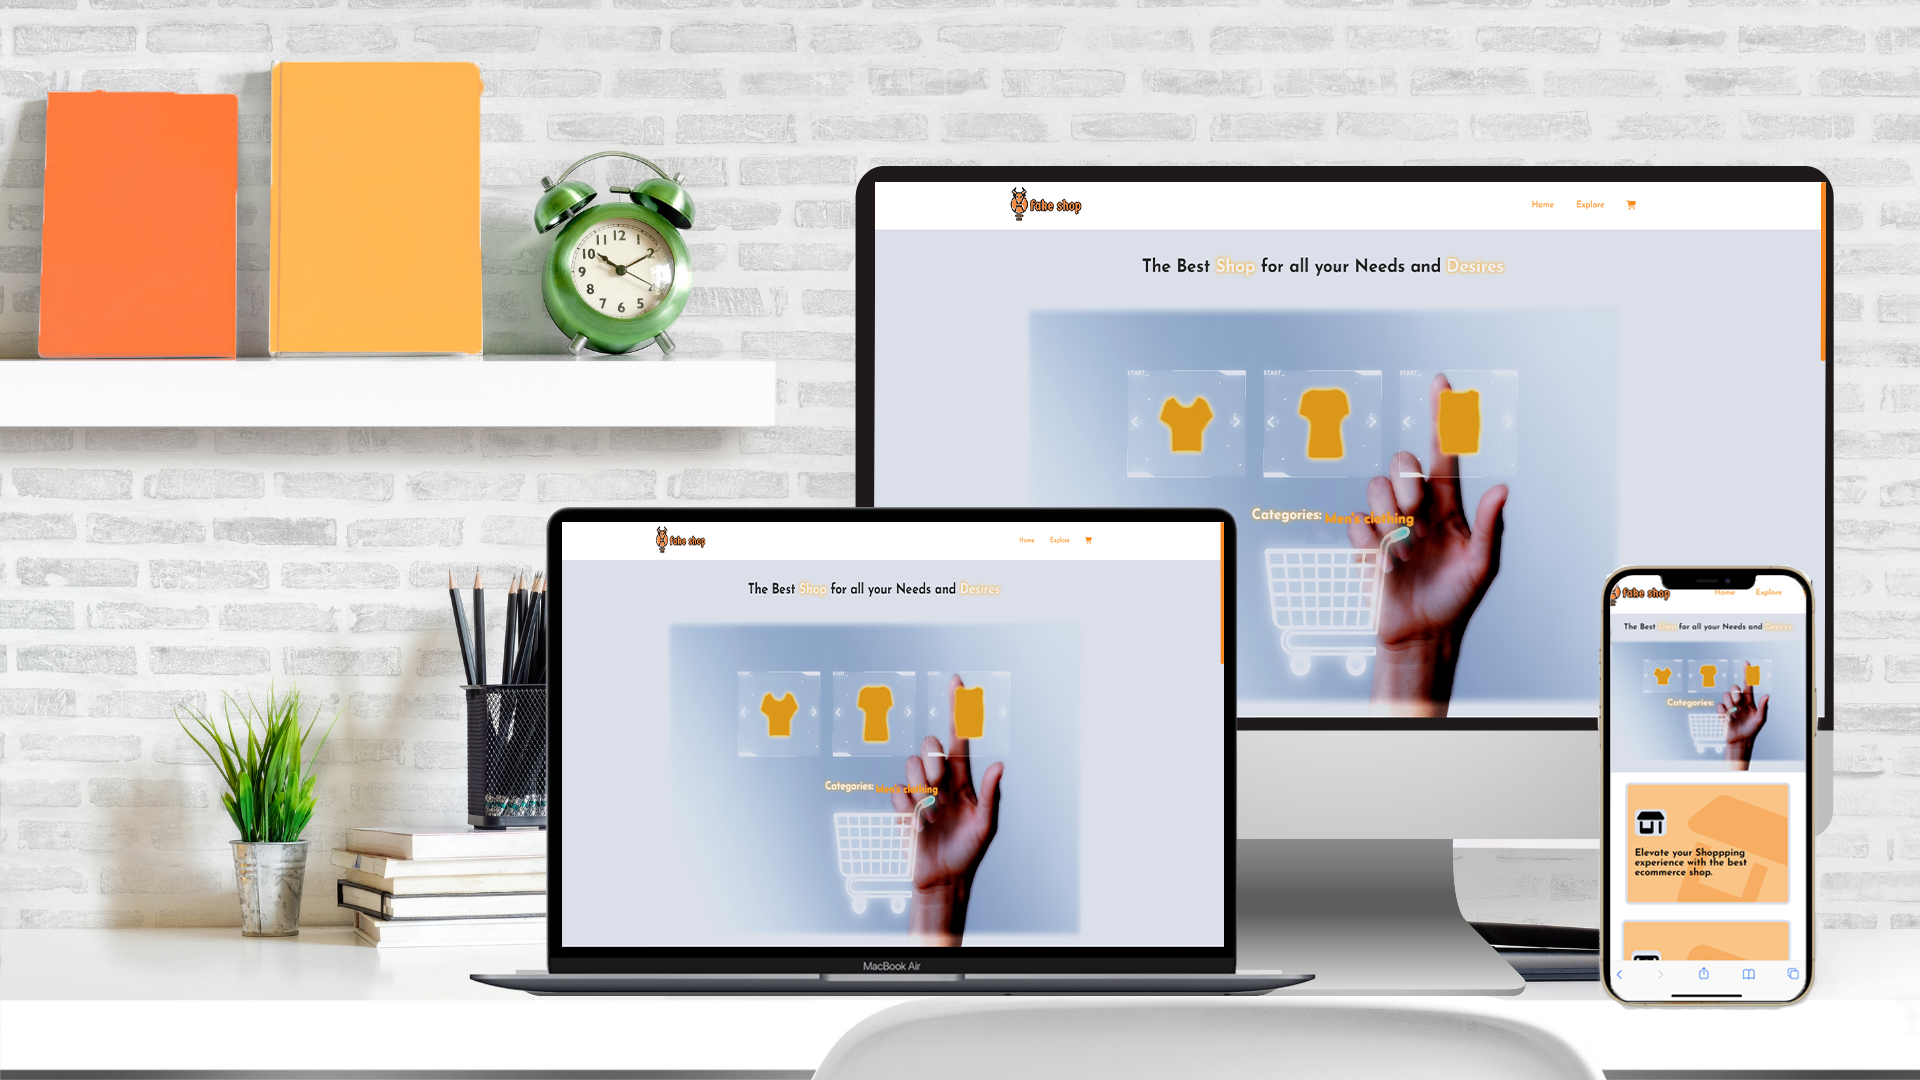
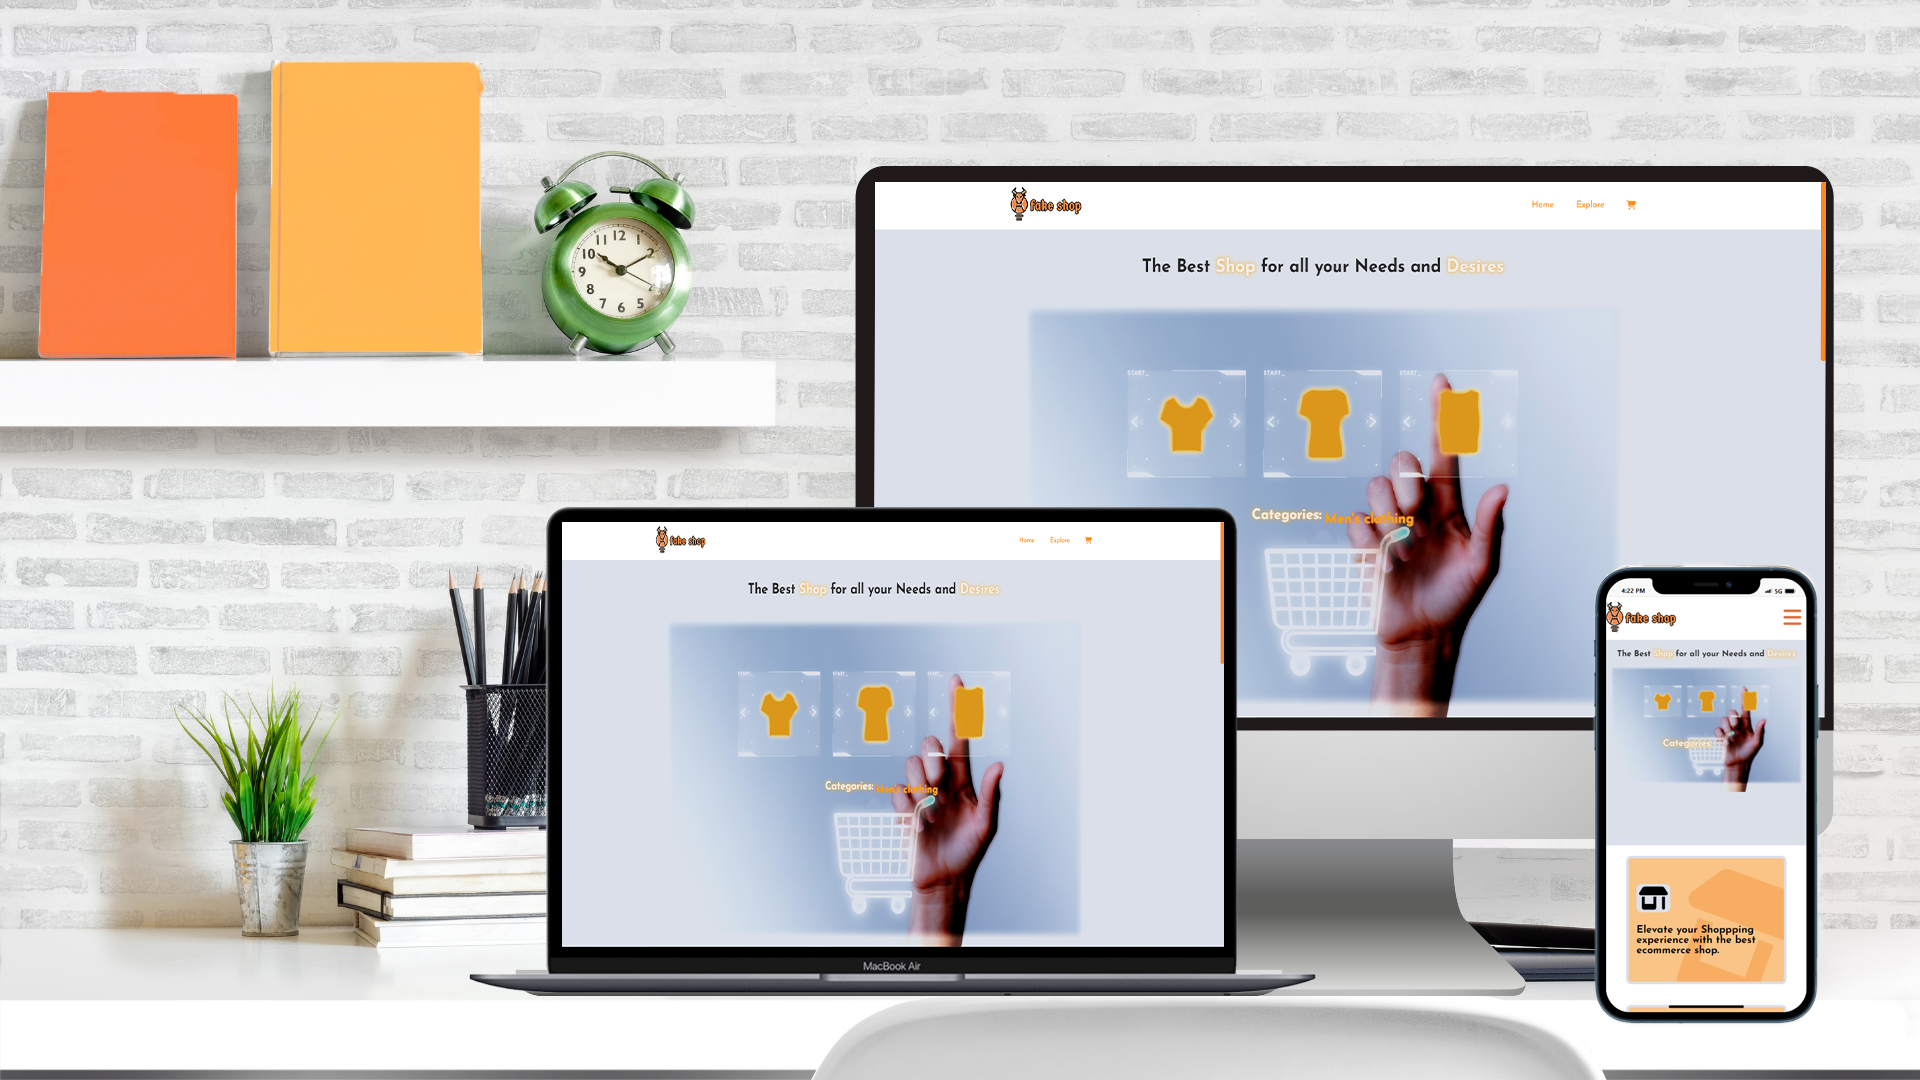
fixed responsiveness

Changed region(s): [[0.8125, 0.5194, 0.9688, 0.9472]]

diff --git a/src/index.css b/src/index.css
@@ -77,6 +77,7 @@ nav {
 
 .nav__link--list {
   display: flex;
+  z-index: 10;
 }
 a {
   text-decoration: none;
@@ -448,17 +449,32 @@ button {
   background-color: #ffffff;
   font-size: 80px;
 }
+
+.failed{
+  margin-bottom: 50px;
+  font-size: 100px;
+  filter:  invert(12%) sepia(77%) saturate(6902%) hue-rotate(3deg) brightness(113%) contrast(119%);;
+}
 .modal__overlay--failed {
-  color: #ff2600;
+  display: flex;
+  flex-direction: column;
+  color: #242424;
   font-size: 30px;
   background-color: #ffffff;
   font-weight: 700;
-  text-align: center;
   padding: 20px;
 }
+.success{
+  margin-bottom: 50px;
+  font-size: 100px;
+  filter: invert(31%) sepia(87%) saturate(1302%) hue-rotate(139deg) brightness(100%) contrast(91%);
+}
 .modal__overlay--success {
-  font-size: 40px;
-  background-color: #0b9472;
+  display: flex;
+  flex-direction: column;
+  font-size: 30px;
+  background-color: #ffffff;
+  color: #242424;
   font-weight: 700;
   text-align: center;
   padding: 28px;

diff --git a/src/components/Modal.jsx b/src/components/Modal.jsx
@@ -133,11 +133,13 @@ function Modal({ closeModal }) {
             <FontAwesomeIcon icon="fa-spinner" className="spinner" />
           </div>
           <div className="modal__overlay modal__overlay--success">
-            "Thanks for the message! Looking forward to speaking to you soon."
+          <FontAwesomeIcon icon='circle-exclamation' className="success"/>
+            Thanks for the message! Looking forward to speaking to you soon.
           </div>
           <div className="modal__overlay modal__overlay--failed">
-            "The email service is temporarily unavalible. Please contact me
-            diractly on tiamani3939@gmail.com"
+            <FontAwesomeIcon icon='circle-exclamation' className="failed"/>
+            The email service is temporarily unavalible. Please contact me
+            diractly on <span className="blue"> tiamani3939@gmail.com </span> 
           </div>
         </div>
       </div>

diff --git a/src/main.jsx b/src/main.jsx
@@ -9,9 +9,10 @@ import {
   faFilePdf,
   faSpinner,
   faTimes,
-  faArrowUp
+  faArrowUp,
+  faCircleExclamation
 } from "@fortawesome/free-solid-svg-icons";
-library.add(faLink,faAdjust,faFilePdf, faSpinner, faTimes, faArrowUp);
+library.add(faLink,faCircleExclamation, faAdjust,faFilePdf, faSpinner, faTimes, faArrowUp);
 
 
 
